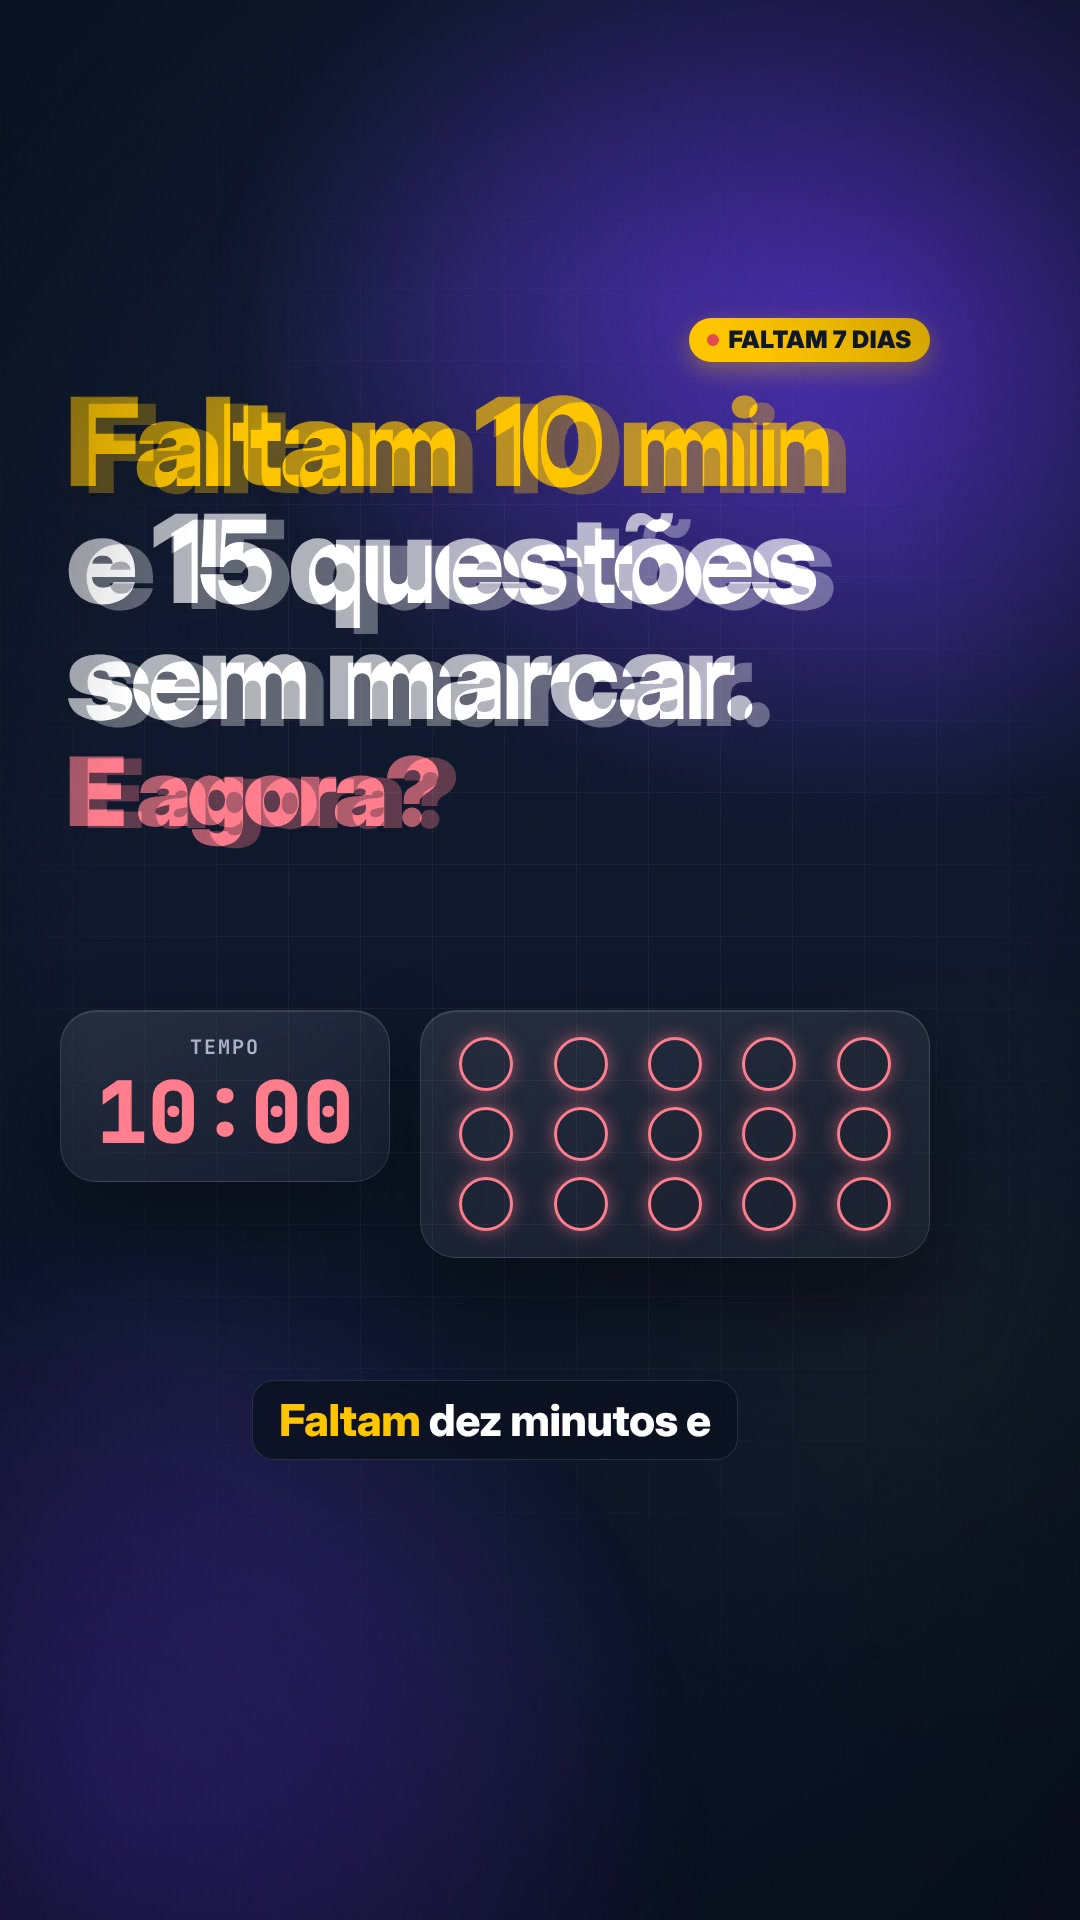
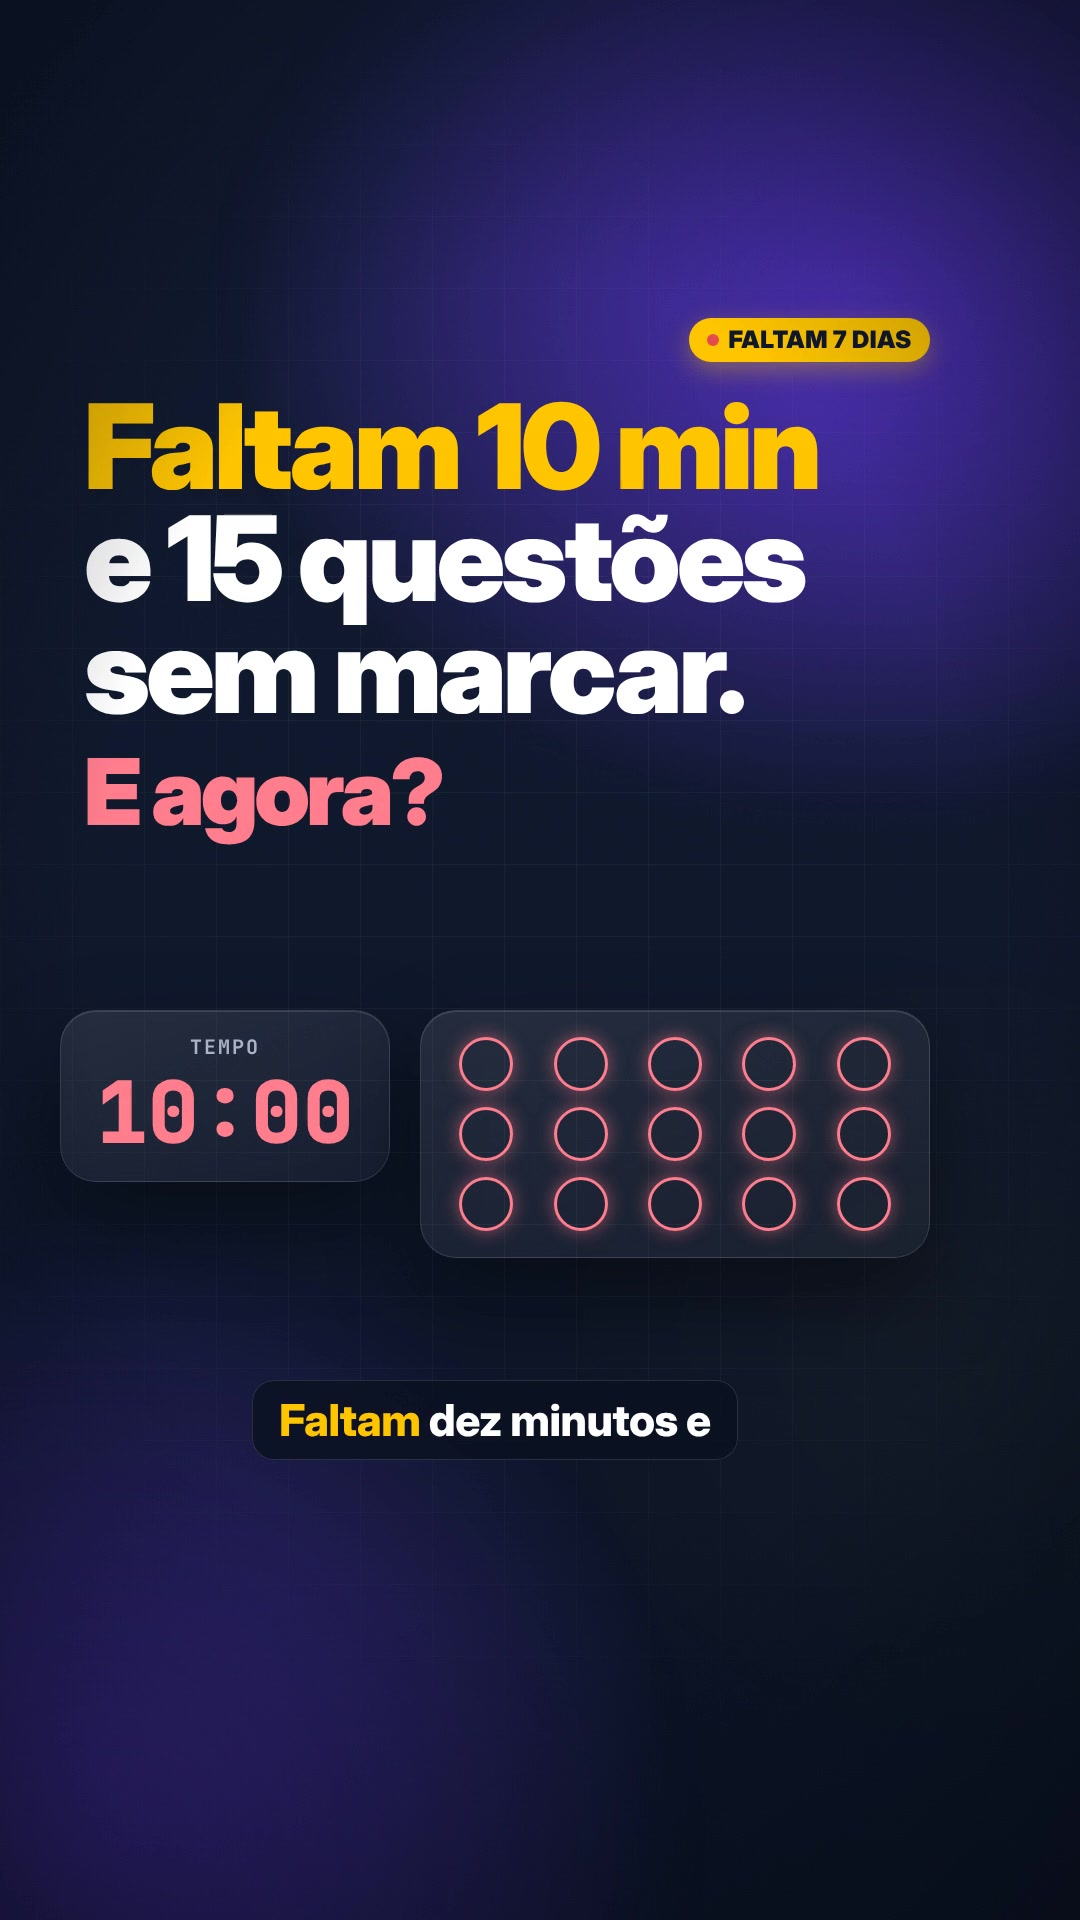
V013/V014 finalizados (gancho 2.0, capas, QC); calendário
Claude-Session: https://claude.ai/code/session_01VFQEki8Dx2XMLPUkP8KK8f

Changed region(s): [[0.0611, 0.1875, 0.7944, 0.4375]]

diff --git a/bizu-do-enem/CALENDARIO.md b/bizu-do-enem/CALENDARIO.md
@@ -10,7 +10,7 @@ Cadência: 2 vídeos por dia (12h e 19h). Vídeos de matéria seguem sempre a me
 | 004 | 29/10 | V007 Inglês: ideia central sem fluência | V008 Espanhol: falsos amigos | ✅ entregues |
 | 005 | 30/10 | V009 Geografia: escala cartográfica | V010 Biologia: fluxo de energia | ✅ entregues |
 | 006 | 31/10 | V011 Redação: temas possíveis + proposta de intervenção | V012 Redação: conexão entre parágrafos (competência 4) | ✅ entregues |
-| 007 | 01/11 | V013 Dicas: cartão-resposta e questão em branco | V014 Dicas: o que cai em cada dia (1º: Linguagens, Humanas e Redação · 2º: Natureza e Matemática) | 📝 roteiro p/ aprovação |
+| 007 | 01/11 | V013 Dicas: cartão-resposta e questão em branco (gancho 2.0) | V014 Dicas: o que cai em cada dia (gancho 2.0) | ✅ entregues |
 | 008 | 02/11 | V015 Sociologia: fato social (Durkheim) | V016 Filosofia: contratualistas (Hobbes × Locke × Rousseau) | 💡 tema proposto |
 | 009 | 03/11 | V017 História: leitura de documento (Lei Áurea) | V018 Literatura: Modernismo (Oswald) | 📝 roteiro em `DIA-004-a-007.md` (movido de 31/10) |
 

diff --git a/bizu-do-enem/video-013/DIRECAO.md b/bizu-do-enem/video-013/DIRECAO.md
@@ -1,6 +1,6 @@
 # V013 — formato gancho 2.0 (primeiro teste)
 
-**Status:** em produção (31/10/2026). Roteiro: `roteiros/DIA-007-dicas.md` (aprovado em 31/10/2026).
+**Status:** entregue (31/10/2026). MP4 enviado no chat; capa (quadro 0), `.srt` e texto do post em `entrega/`. QC: sem pretos/congelamentos/cortes secos. Roteiro: `roteiros/DIA-007-dicas.md` (aprovado em 31/10/2026).
 
 - **Voz:** Vinicius Messer (`eleven_multilingual_v2`), take 1 de 2; transcrição conferida palavra por palavra.
 - **Gancho 2.0:** o quadro 0 já tem o desafio escrito na tela, com impacto sonoro em 0 s. O selo "FALTAM 7 DIAS" e a legenda da fala ficam queimados na tela (`shared/hook2.js`). A cena de comentário vem antes do CTA, e o CTA fala do e-book no perfil.

diff --git a/bizu-do-enem/video-014/DIRECAO.md b/bizu-do-enem/video-014/DIRECAO.md
@@ -1,6 +1,6 @@
 # V014 — formato gancho 2.0 (primeiro teste)
 
-**Status:** em produção (31/10/2026). Roteiro: `roteiros/DIA-007-dicas.md` (aprovado em 31/10/2026).
+**Status:** entregue (31/10/2026). MP4 enviado no chat; capa (quadro 0), `.srt` e texto do post em `entrega/`. QC: sem pretos/congelamentos/cortes secos. Roteiro: `roteiros/DIA-007-dicas.md` (aprovado em 31/10/2026).
 
 - **Voz:** Vinicius Messer (`eleven_multilingual_v2`), take 1 de 2; transcrição conferida palavra por palavra.
 - **Gancho 2.0:** o quadro 0 já tem o desafio escrito na tela, com impacto sonoro em 0 s. O selo "FALTAM 7 DIAS" e a legenda da fala ficam queimados na tela (`shared/hook2.js`). A cena de comentário vem antes do CTA, e o CTA fala do e-book no perfil.
